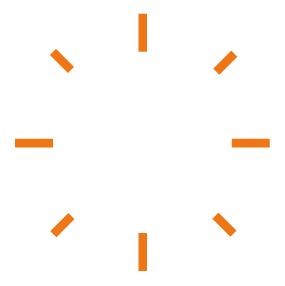
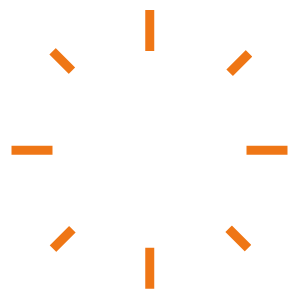
Add files via upload

diff --git a/Landing Makita/index.html b/Landing Makita/index.html
@@ -23,11 +23,33 @@
     </a>
 
     <nav>
-        <a href="#caracteristicas">Características</a>
-        <a href="#funcionamiento">Funcionamiento</a>
-        <a href="#compatibilidad">Compatibilidad</a>
-        <a href="#contacto">Contacto</a>
-    </nav>
+    <a href="#top">Inicio</a>
+    <a href="#caracteristicas">Características</a>
+    <a href="#funcionamiento">Funcionamiento</a>
+    <a href="#partes">Partes</a>
+    <a href="#colores">Colores</a>
+    <a href="#cta-final">Comprar</a>
+    <a href="#contacto">Contacto</a>
+</nav>
+
+</header>
+<header class="navbar">
+
+  <a href="#top" class="logo">
+    <img src="makita-logo.png" alt="Makita">
+  </a>
+
+  <button class="menu-toggle">☰</button>
+
+  <nav>
+    <a href="#top">Inicio</a>
+    <a href="#caracteristicas">Características</a>
+    <a href="#funcionamiento">Funcionamiento</a>
+    <a href="#partes">Partes</a>
+    <a href="#colores">Colores</a>
+    <a href="#cta-final">Comprar</a>
+    <a href="#contacto">Contacto</a>
+  </nav>
 
 </header>
 
@@ -89,8 +111,9 @@
     </div>
 
 </section>
+
 <section id="caracteristicas" class="features">
-  <h2 class="section-title reveal">CARACTERÍSTICAS PRINCIPALES</h2>
+  <h2 class="section-title reveal">CARACTERÍSTICAS</h2>
 
   <div class="features-grid">
 
@@ -120,32 +143,33 @@
 
   </div>
 </section>
+
 <section id="funcionamiento" class="steps-carousel">
   <h2 class="section-title reveal">CÓMO FUNCIONA</h2>
 
   <div class="carousel">
     <div class="slide active">
       <img src="paso1.png" alt="Cargar agua">
-      <h3>PASO 1. CARGÁ AGUA</h3>
+      <h3>1. CARGÁ AGUA</h3>
       <p>Llená el depósito con agua limpia hasta el nivel indicado para asegurar un café perfecto.</p>
     </div>
 
     <div class="slide">
       <img src="paso2.png" alt="Agregar café">
-      <h3>PASO 2. AGREGÁ CAFÉ</h3>
-      <p>Colocá tu café molido favorito en el portafiltro, diseñado para soportar el ritmo de la obra.</p>
+      <h3>2. AGREGÁ CAFÉ</h3>
+      <p>Colocá tu café molido favorito sin marca en el portafiltro reutilizable original.</p>
     </div>
 
     <div class="slide">
       <img src="paso3.png" alt="Instalar batería">
-      <h3>PASO 3. INSTALÁ LA BATERÍA</h3>
-      <p>Encajá la batería Makita LXT en el compartimiento para darle energía a la cafetera.</p>
+      <h3>3. INSTALÁ LA BATERÍA</h3>
+      <p>Encajá la batería Makita LXT en el compartimiento lateral correcto para darle energía.</p>
     </div>
 
     <div class="slide">
       <img src="paso4.png" alt="Disfrutar café">
-      <h3>PASO 4. DISFRUTÁ</h3>
-      <p>En apenas 5 minutos, tu café caliente está listo para acompañar la jornada.</p>
+      <h3>4. DISFRUTÁ</h3>
+      <p>En apenas 5 minutos, tu café caliente está listo en la taza de acero original Makita.</p>
     </div>
   </div>
 
@@ -154,90 +178,142 @@
     <button class="next">›</button>
   </div>
 </section>
-<section class="exploded reveal">
 
-    <div class="exploded-text">
+<section id="partes" class="exploded reveal">
+    <div class="exploded-wrapper">
 
-        <h2>
-            DISEÑADA<br>
-            PARA DURAR
-        </h2>
+<img src="partes sin fondo.png"
+     alt="Partes Makita DCM501"
+     class="exploded-product">
 
-        <ul>
-            <li>Asa de transporte</li>
-            <li>Depósito de agua</li>
-            <li>Portafiltro</li>
-            <li>Soporte de taza</li>
-            <li>Compartimiento de batería</li>
-        </ul>
 
+<div class="part deposito part-left">
+
+    <button class="hotspot" onclick="toggleSpec('spec1')">
+        Depósito de agua
+        <span></span>
+    </button>
+
+    <div id="spec1" class="spec-box">
+        Tanque extraíble de 240 ml. Permite cargar agua rápidamente y facilita la limpieza.
     </div>
 
-    <div class="exploded-image">
-        <img src="exploded-view.png" alt="">
+</div>
+
+<div class="part cuchara part-left">
+
+    <button class="hotspot" onclick="toggleSpec('spec2')">
+        Cuchara medidora
+        <span></span>
+    </button>
+
+    <div id="spec2" class="spec-box">
+        Dosificación precisa para preparar una taza sin desperdiciar café.
     </div>
+
+</div>
+
+<div class="part bateria part-left">
+
+    <button class="hotspot" onclick="toggleSpec('spec5')">
+        Batería LXT
+        <span></span>
+    </button>
+
+    <div id="spec5" class="spec-box">
+        Compatible con baterías Makita 18V LXT utilizadas en herramientas profesionales.
+    </div>
+
+</div>
+
+<div class="part filtro part-right">
+
+    <button class="hotspot" onclick="toggleSpec('spec3')">
+        <span></span>
+        Filtro permanente
+    </button>
+
+    <div id="spec3" class="spec-box">
+        Filtro reutilizable de acero inoxidable. No requiere filtros descartables.
+    </div>
+
+</div>
+
+<div class="part taza part-right">
+
+    <button class="hotspot" onclick="toggleSpec('spec4')">
+        <span></span>
+        Taza de acero inoxidable
+    </button>
+
+    <div id="spec4" class="spec-box">
+        Incluida con la cafetera. Conserva mejor la temperatura durante el uso.
+    </div>
+
+</div>
 
 </section>
-
 <section class="quote">
 
     <div class="quote-overlay"></div>
 
     <h2>
-        CONSTRUIDA PARA LA OBRA.<br>
-        DISEÑADA PARA EL CAFÉ.
-    </h2>
+    TU CAFÉ LISTO<br>
+    EN CUALQUIER LUGAR
+</h2>
 
 </section>
 
-<section id="compatibilidad" class="compatibility reveal">
 
-    <div class="compatibility-image">
-        <img src="battery.jpg" alt="">
-    </div>
+<section id="colores" class="colors-section">
+    <div class="colors-container">
 
-    <div class="compatibility-text">
+        <div class="product-view">
 
-        <h2>
-            UNA BATERÍA.<br>
-            MÁS POSIBILIDADES.
-        </h2>
+            <div class="product-frame">
+                <img id="coffeeMachine"
+                     src="makita-azul.png"
+                     alt="Makita Azul">
+            </div>
 
-        <p>
-            Compatible con baterías Makita LXT, permitiendo integrarse fácilmente a tu ecosistema de herramientas.
-        </p>
+        </div>
+
+        <div class="color-selector">
+
+            <h2 class="section-title colors-title">
+    ELEGÍ LA QUE<br>
+    MÁS TE GUSTE
+</h2>
+
+            <button class="color-option active"
+                    data-image="makita-azul.png">
+
+                <span class="color-swatch makita-blue"></span>
+                <span class="color-name">Azul Makita</span>
+
+            </button>
+
+            <button class="color-option"
+                    data-image="makita-bordo.png">
+
+                <span class="color-swatch makita-red"></span>
+                <span class="color-name">Rojo vino</span>
+
+            </button>
+
+            <button class="color-option"
+                    data-image="makita-verde.png">
+
+                <span class="color-swatch makita-green"></span>
+                <span class="color-name">Verde oliva</span>
+
+            </button>
+
+        </div>
 
     </div>
 
 </section>
-
-<section class="uses">
-
-    <h2 class="section-title reveal">
-        LISTA PARA CUALQUIER ENTORNO
-    </h2>
-
-    <div class="uses-grid">
-
-        <article class="use-card">
-            <img src="obra.jpg" alt="">
-            <span>OBRA</span>
-        </article>
-
-        <article class="use-card">
-            <img src="taller.jpg" alt="">
-            <span>TALLER</span>
-        </article>
-
-        <article class="use-card">
-            <img src="exterior.jpg" alt="">
-            <span>EXTERIOR</span>
-        </article>
-
-    </div>
-
-</section>
-
 <section id="cta-final" class="final-cta">
 
     <h2>
@@ -269,6 +345,7 @@
     </div>
 
 </footer>
+
 <script>
 const slides = document.querySelectorAll('.slide');
 let current = 0;
@@ -288,30 +365,86 @@ document.querySelector('.prev').addEventListener('click', () => {
   current = (current - 1 + slides.length) % slides.length;
   showSlide(current);
 });
+
+// Sistema de scroll (reveal)
+const reveals = document.querySelectorAll('.reveal');
+const observer = new IntersectionObserver(entries => {
+  entries.forEach(entry => {
+    if(entry.isIntersecting){
+      entry.target.classList.add('active');
+    }
+  });
+});
+reveals.forEach(el => observer.observe(el));
 </script>
-
-</body>
-</html>
-
 <script>
 
-const reveals = document.querySelectorAll('.reveal');
+function toggleSpec(id){
 
-const observer = new IntersectionObserver(entries => {
+document.querySelectorAll('.spec-box').forEach(box=>{
 
-entries.forEach(entry => {
-
-if(entry.isIntersecting){
-entry.target.classList.add('active');
+if(box.id !== id){
+box.classList.remove('active');
 }
 
 });
 
-});
+document.getElementById(id).classList.toggle('active');
 
-reveals.forEach(el => observer.observe(el));
+}
 
 </script>
+<script>
 
+const colorButtons =
+document.querySelectorAll('.color-option');
+
+const machineImage =
+document.getElementById('coffeeMachine');
+
+colorButtons.forEach(button=>{
+
+button.addEventListener('click',()=>{
+
+colorButtons.forEach(btn=>
+btn.classList.remove('active')
+);
+
+button.classList.add('active');
+
+machineImage.src =
+button.dataset.image;
+
+});
+
+});
+
+</script>
+<script>
+
+const navbar = document.querySelector('.navbar');
+
+let navbarActivated = false;
+
+window.addEventListener('scroll', () => {
+
+    if (!navbarActivated && window.scrollY > 50) {
+
+        navbar.classList.add('visible');
+        navbarActivated = true;
+
+    }
+
+});
+
+</script>
+<script>
+const menuToggle = document.querySelector('.menu-toggle');
+const navbar = document.querySelector('.navbar');
+
+menuToggle.addEventListener('click', () => {
+  navbar.classList.toggle('active');
+});
+</script>
 </body>
 </html>